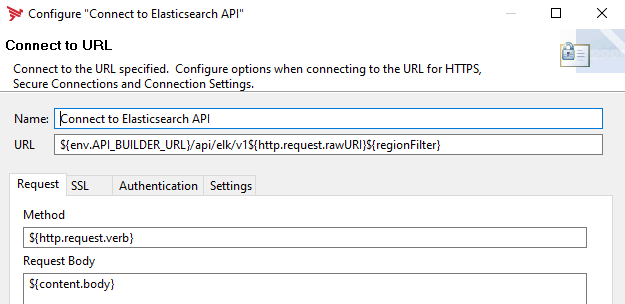
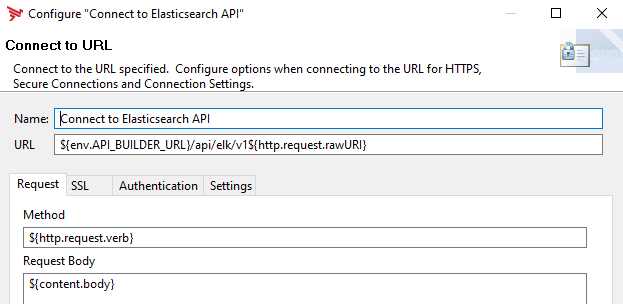
Prepare to release V2.0.0

diff --git a/nodemanager/README.md b/nodemanager/README.md
@@ -22,6 +22,8 @@ _The following endpoints are currently supported by the API Builder based Traffi
 | **Circuitpath**     | `^\/api\/router\/service\/[A-Za-z0-9-.]+\/ops\/stream\/[A-Za-z0-9]+\/[^\/]+\/circuitpath$` | Endpoint which provides the data for the Filter Execution Path as part of the detailed view of a transaction|
 | **Trace**     | `^\/api\/router\/service\/[A-Za-z0-9-.]+\/ops\/trace\/[A-Za-z0-9]+[\?]?.*$` | Endpoint which returns the trace information and the **getinfo** endpoint which returns the request detail information including the http header of each leg|
 | **GetInfo**     | `^\/api\/router\/service\/[A-Za-z0-9-.]+\/ops\/[A-Za-z0-9]+\/[A-Za-z0-9]+\/[\*0-9]{1}\/getinfo[\?]?.*$` |Endpoint provides information for the Requesr- Response-Details|
+| **Payload**     | `^\/api\/router\/service\/[A-Za-z0-9-.]+\/ops\/stream\/.*\/\d+\/(?:sent|received)$` |Payload endpoint|
+
 
 The compare attribute filter should look like this:   
 ![Is API Managed](../imgs/IsmanagedbyElasticsearchAPI.png)  
@@ -32,7 +34,26 @@ This `Set Attribute` filter: `Set region filter` creates a new attribute: `regio
 
 ![Set region filter](../imgs/setRegionFilter.png)  
 
-Sample:  `&region=${env.REGION == '[invalid field]' ? "" : env.REGION}`
+Sample:  `region=${env.REGION == '[invalid field]' ? "" : env.REGION}`
+
+### Add region filter
+
+Adds the region filter, which is optional to the `http.request.rawURI` attribute.
+
+```javascript
+function invoke(msg) {
+    var httpRequestRawURI = msg.get("http.request.rawURI");
+    var regionFilter = msg.get("regionFilter");
+
+    if (httpRequestRawURI.contains('?')) {
+        httpRequestRawURI += "&" + regionFilter;
+    } else {
+        httpRequestRawURI += "?" + regionFilter;
+    }
+    msg.put("http.request.rawURI", httpRequestRawURI);
+    return true;
+}
+```
 
 ### Connect to Elasticsearch API
 

diff --git a/CHANGELOG.md b/CHANGELOG.md
@@ -4,13 +4,23 @@ All notable changes to this project will be documented in this file.
 The format is based on [Keep a Changelog](http://keepachangelog.com/)
 and this project adheres to [Semantic Versioning](http://semver.org/).
 
-## [Unreleased] 
+## [2.0.0] 2021-01-12
 ### Added
 - Custom-Properties for an API now looked up
   - Index mapping now includes all configured custom properties
+- Regional-Support to store data from different regions separatly
+  - See https://github.com/Axway-API-Management-Plus/apigateway-openlogging-elk#different-topologiesdomains
+- Local API-Lookup for native API-Enrichment & Disable APIs/Events ()
+  - See https://github.com/Axway-API-Management-Plus/apigateway-openlogging-elk/blob/develop/README.md#setup-local-lookup
+- Payload-Support
+  - See https://github.com/Axway-API-Management-Plus/apigateway-openlogging-elk#traffic-payload
+- External HTTP-Based User-Authorization
+  - See https://github.com/Axway-API-Management-Plus/apigateway-openlogging-elk/blob/develop/README.md#customize-user-authorization
+- Life-Cycle-Management
+  - See https://github.com/Axway-API-Management-Plus/apigateway-openlogging-elk/blob/develop/README.md#lifecycle-management
 
 ### Changed
-- Updated API-Builder to version Agra
+- Updated API-Builder to version Dubai
 - Elasticsearch configuration now managed by API-Builder project and no longer by Logstash
   - Index-Templates
   - ILM-Policies has been added

diff --git a/DEVELOPMENT.MD b/DEVELOPMENT.MD
@@ -1,0 +1,13 @@
+## Steps to create a release
+
+### Bump version
+- docker-compose.yml
+    `image: cwiechmann/apibuilder4elastic:v2.0.0`
+- apibuilder4elastic/package.json
+    `"version": "v2.0.0",`
+
+### CHANGELOG.md
+- Add recent changes
+
+### Create the release
+- Create a new release on Github with the tag name: v2.0.0
